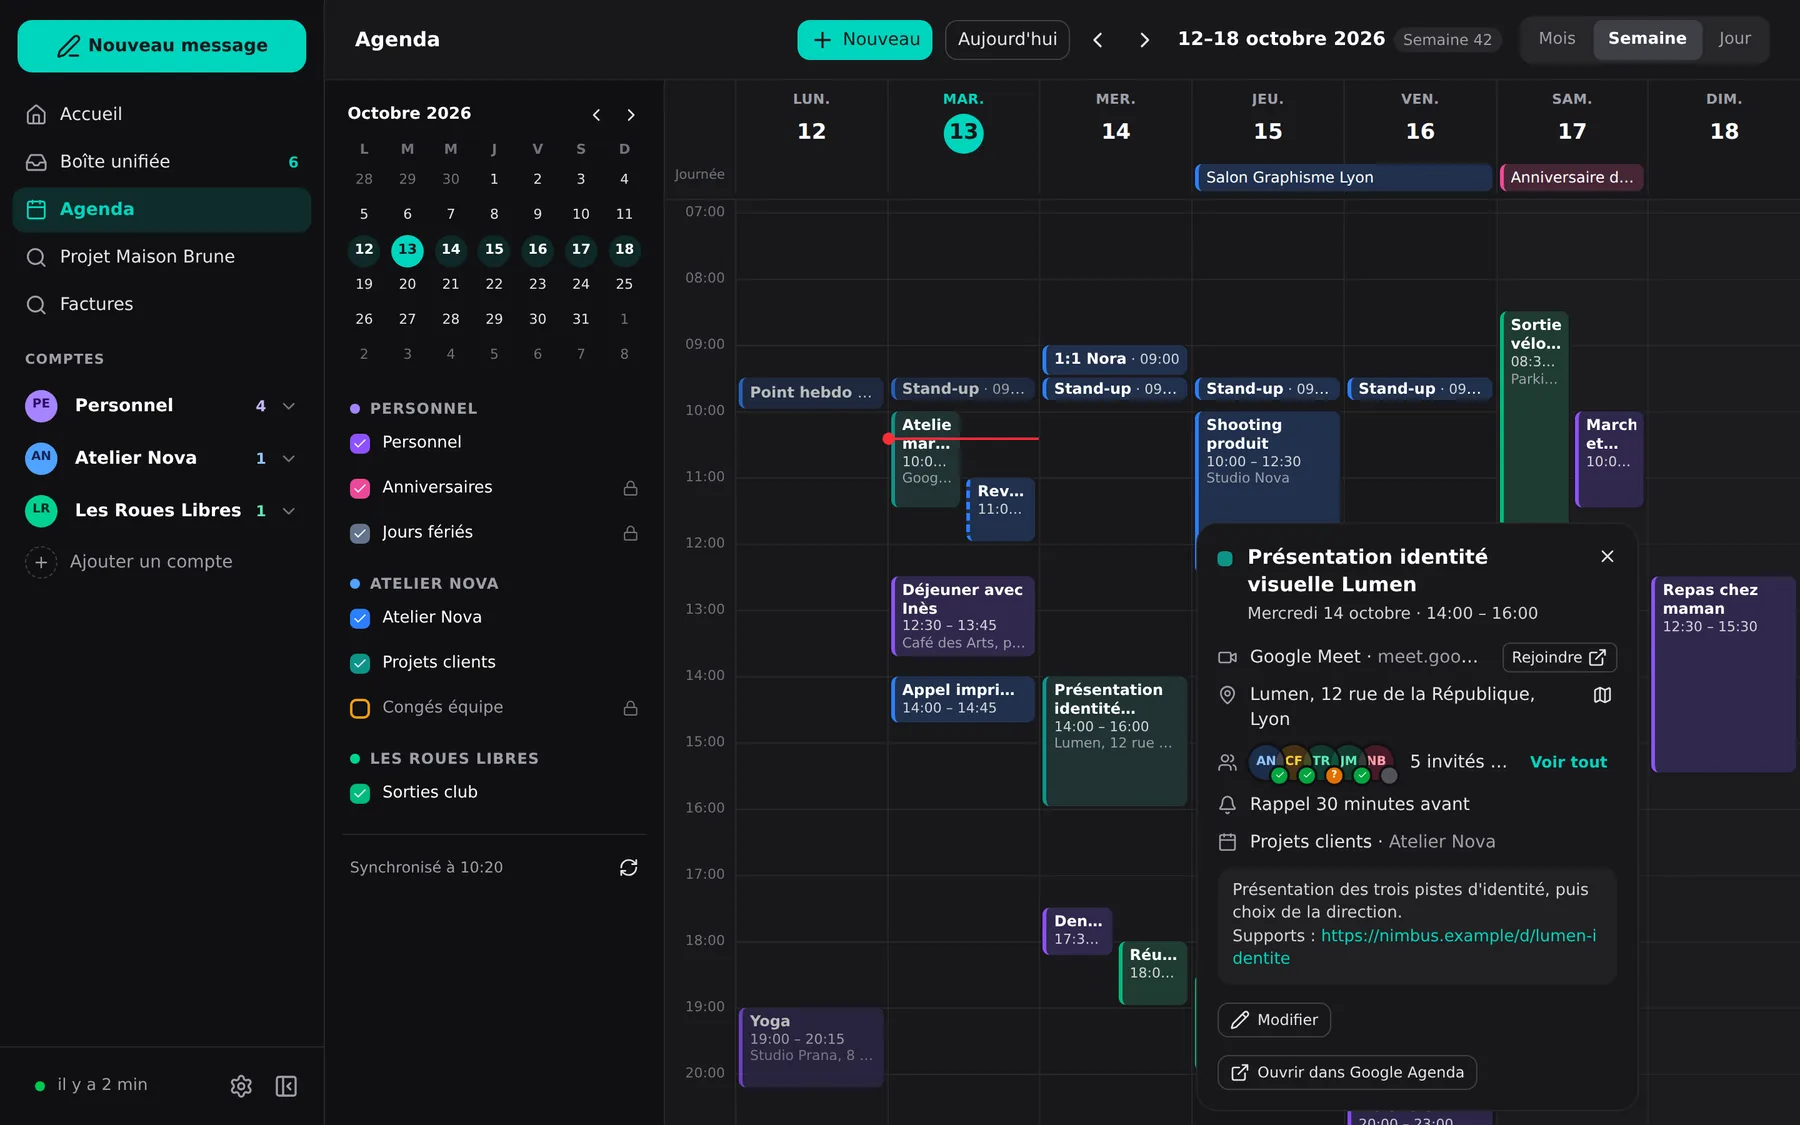
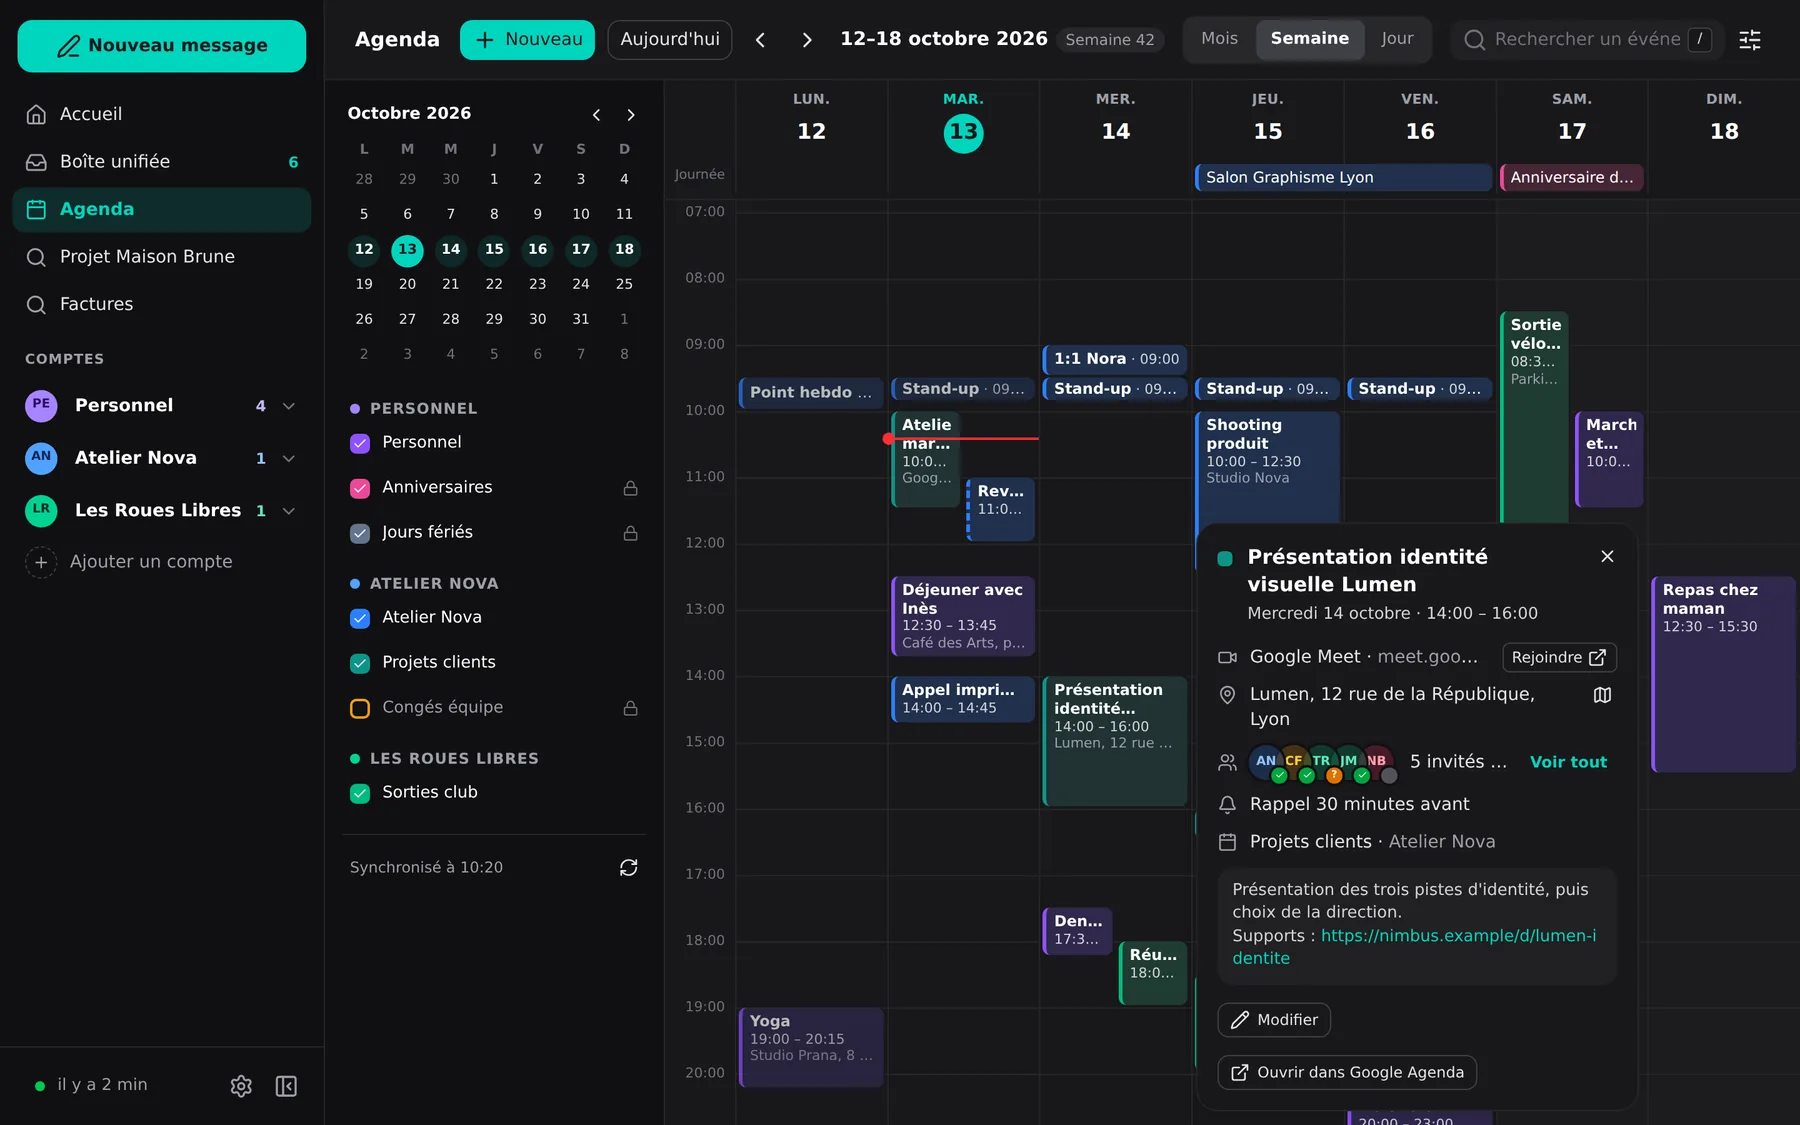
Website: screenshots of the current interface, calendar search shown, features since 0.8 listed

Changed region(s): [[0.4356, 0.0, 0.9956, 0.0622], [0.2489, 0.0, 0.4044, 0.0622]]

diff --git a/site/features.html b/site/features.html
@@ -85,6 +85,7 @@
             <li><span lang="fr">Recherche plein texte dans tous les comptes, et sur le serveur si besoin</span><span lang="en">Full-text search across every account, and on the server when needed</span></li>
             <li><span lang="fr">Recherches enregistrées dans la barre latérale</span><span lang="en">Saved searches in the sidebar</span></li>
             <li><span lang="fr">Synchro au rythme choisi pour chaque compte, nouveaux messages en direct</span><span lang="en">Sync at the pace you choose per account, new mail live</span></li>
+            <li><span lang="fr">Les gros messages s'ouvrent d'abord sur leur texte</span><span lang="en">Large messages open on their text first</span></li>
           </ul>
         </div>
         <div class="frame"><img src="screens/search-dark.webp" width="1800" height="1125" loading="lazy" decoding="async"
@@ -99,12 +100,13 @@
             <li><span lang="fr">Événements répétés : chaque semaine, le 3e mardi du mois, jusqu'à une date…</span><span lang="en">Repeating events: every week, the 3rd Tuesday of the month, until a date…</span></li>
             <li><span lang="fr">Invités et leurs réponses, invitations envoyées pour vous</span><span lang="en">Guests and their answers, invitations sent for you</span></li>
             <li><span lang="fr">Rappels en notification, avec « Rejoindre » pour la visio</span><span lang="en">Reminders as notifications, with “Join” for the video call</span></li>
+            <li><span lang="fr">Recherche dans tous les agendas : qui, où, quand, accents facultatifs</span><span lang="en">Search across every calendar: who, where, when, accents optional</span></li>
           </ul>
         </div>
-        <div class="frame"><img src="screens/event-dark.webp" width="1800" height="1125" loading="lazy" decoding="async"
-            data-alt-fr="La semaine dans l'agenda, une réunion ouverte : lien de visio, lieu, invités et leurs réponses, rappel."
-            data-alt-en="The week in the calendar, a meeting open: video link, place, guests and their answers, reminder."
-            alt="La semaine dans l'agenda, une réunion ouverte : lien de visio, lieu, invités et leurs réponses, rappel."></div>
+        <div class="frame"><img src="screens/calendar-search-dark.webp" width="1800" height="1125" loading="lazy" decoding="async"
+            data-alt-fr="Une recherche « Lumen » dans l'agenda : les événements à venir, une réunion répétée chaque semaine, puis les passés."
+            data-alt-en="A search for “Lumen” in the calendar: upcoming events, a meeting repeated every week, then past ones."
+            alt="Une recherche « Lumen » dans l'agenda : les événements à venir, une réunion répétée chaque semaine, puis les passés."></div>
       </section>
       <section class="panel" role="tabpanel" id="panel-ai" aria-labelledby="tab-ai" hidden>
         <div class="text">
@@ -113,6 +115,7 @@
             <li><span lang="fr">Résumer un long fil en quelques points</span><span lang="en">Sum up a long thread in a few points</span></li>
             <li><span lang="fr">Un rendez-vous dans un message devient un événement en un clic</span><span lang="en">An appointment in a message becomes an event in one click</span></li>
             <li><span lang="fr">Dicter vos messages : un bouton micro, la ponctuation en prime</span><span lang="en">Dictate your messages: a microphone button, punctuation included</span></li>
+            <li><span lang="fr">Plus rapide sur la carte graphique, quand l'ordinateur en a une</span><span lang="en">Faster on the graphics card, when the computer has one</span></li>
           </ul>
         </div>
         <div class="frame"><img src="screens/ai-dark.webp" width="1800" height="1125" loading="lazy" decoding="async"
@@ -128,6 +131,7 @@
             <li><span lang="fr">Accepter comme personne, newsletter ou notification</span><span lang="en">Accept as a person, a newsletter or a notification</span></li>
             <li><span lang="fr">Décider pour tout un domaine d'un coup</span><span lang="en">Decide for a whole domain at once</span></li>
             <li><span lang="fr">Les messages suspects sont signalés avant que vous acceptiez</span><span lang="en">Suspicious messages are flagged before you accept them</span></li>
+            <li><span lang="fr">Refusé et supprimé : ses messages partent à la corbeille, maintenant et plus tard</span><span lang="en">Refused and deleted: their mail goes to the trash, now and later</span></li>
           </ul>
         </div>
         <div class="frame"><img src="screens/screener-dark.webp" width="1800" height="1125" loading="lazy" decoding="async"
@@ -142,6 +146,7 @@
             <li><span lang="fr">Annuler l'envoi, envoyer plus tard, modèles de messages</span><span lang="en">Undo send, send later, message templates</span></li>
             <li><span lang="fr">« Plus tard » : un message revient quand vous voulez</span><span lang="en">“Later”: a message comes back when you choose</span></li>
             <li><span lang="fr">Relances : « Sans réponse » vous rappelle ce qui attend</span><span lang="en">Follow-ups: “No reply” reminds you of what is waiting</span></li>
+            <li><span lang="fr">Brouillons signalés dans leur fil, repris ou abandonnés sur place</span><span lang="en">Drafts shown in their thread, resumed or discarded right there</span></li>
           </ul>
         </div>
         <div class="frame"><img src="screens/compose-dark.webp" width="1800" height="1125" loading="lazy" decoding="async"
@@ -155,6 +160,8 @@
           <ul class="checks">
             <li><span lang="fr">Liens trompeurs et domaines sosies signalés, pisteurs repérés</span><span lang="en">Deceptive links and lookalike domains flagged, trackers spotted</span></li>
             <li><span lang="fr">Pièces jointes inspectées : leur vrai type, pas celui annoncé</span><span lang="en">Attachments inspected: their real type, not the one claimed</span></li>
+            <li><span lang="fr">Images autorisées pour un expéditeur vérifié ou pour le site qui les héberge</span><span lang="en">Images allowed for a verified sender or for the site hosting them</span></li>
+            <li><span lang="fr">Liens réécrits par une passerelle de filtrage jugés sur leur vraie destination</span><span lang="en">Links rewritten by a filtering gateway judged by their real destination</span></li>
             <li><span lang="fr">Désabonnement en un clic des envois groupés</span><span lang="en">One-click unsubscribe from bulk mail</span></li>
           </ul>
         </div>

diff --git a/scripts/screenshots/mock.js b/scripts/screenshots/mock.js
@@ -69,7 +69,13 @@
         },
         sender_key: m.from.email.split('@')[1],
         images_allowed: !m.remote,
-        invite: m.invite ?? null
+        sender_proven: true,
+        own_copy: false,
+        image_hosts: [],
+        blocked_hosts: m.remote ? [m.from.email.split('@')[1]] : [],
+        images_covered: false,
+        invite: m.invite ?? null,
+        appointment: null
       })
       summaries.push(summary)
     })
@@ -383,6 +389,37 @@
     calendar_events: ({ from, to }) => {
       const on = new Set(demo.calendar.calendars.filter(c => c.enabled).map(c => c.id))
       return demo.calendar.events.filter(e => on.has(e.calendar_id) && e.start < to && (e.end > from || (e.end === e.start && e.start >= from)))
+    },
+    // As the engine: accents and case aside, a series is one hit at its next occurrence.
+    search_calendar_events: ({ query: q }) => {
+      const fold = t => (t || '').toLowerCase().normalize('NFD').replace(/[\u0300-\u036f]/g, '')
+      const words = t => fold(t).split(/\s+/).filter(Boolean)
+      const text = words(q.text).filter(w => !w.startsWith('-'))
+      const without = [...words(q.without), ...words(q.text).filter(w => w.startsWith('-')).map(w => w.slice(1)).filter(Boolean)]
+      const who = words(q.who)
+      const place = words(q.place)
+      if (!text.length && !who.length && !place.length) return { hits: [], more: false }
+      const now = Date.now() / 1000
+      const on = new Set(demo.calendar.calendars.filter(c => c.enabled && (!q.calendars.length || q.calendars.includes(c.id))).map(c => c.id))
+      const series = new Map()
+      for (const e of demo.calendar.events) {
+        if (!on.has(e.calendar_id) || (q.from !== null && e.end <= q.from) || (q.to !== null && e.start >= q.to)) continue
+        const people = fold([e.organizer, ...e.attendees.flatMap(a => [a.email, a.name])].join('\n'))
+        const loc = fold(e.location)
+        const all = [fold(e.summary), loc, fold(e.description), people].join('\n')
+        if (!text.every(w => all.includes(w)) || !who.every(w => people.includes(w)) || !place.every(w => loc.includes(w)) || without.some(w => all.includes(w))) continue
+        const key = `${e.calendar_id}\n${e.recurring ? e.uid : e.id}`
+        const hit = series.get(key)
+        if (!hit) series.set(key, { event: e, occurrences: 1 })
+        else {
+          hit.occurrences++
+          if (hit.event.end <= now) hit.event = e
+        }
+      }
+      const hits = [...series.values()]
+      const upcoming = hits.filter(h => h.event.end > now).sort((a, b) => a.event.start - b.event.start)
+      const past = hits.filter(h => h.event.end <= now).sort((a, b) => b.event.start - a.event.start)
+      return { hits: [...upcoming, ...past], more: false }
     },
     set_calendar_enabled: ({ id, enabled }) => {
       const c = demo.calendar.calendars.find(x => x.id === id)

diff --git a/scripts/screenshots/data.js b/scripts/screenshots/data.js
@@ -369,8 +369,11 @@
   /** All-day events: local midnights, the end exclusive. */
   const allDay = (calendar, summary, day, days = 1, extra = {}) => event(calendar, summary, day, 0, 0, 0, { all_day: true, end: local(day + days), ...extra })
   // Today is Tuesday: Monday is day -1.
-  const weekly = (calendar, summary, weekday, hh, mm, minutes, extra) =>
-    [-14, -7, 0, 7, 14, 21].map(w => event(calendar, summary, w + weekday, hh, mm, minutes, extra))
+  let seriesId = 0
+  const weekly = (calendar, summary, weekday, hh, mm, minutes, extra) => {
+    const uid = `demo-series-${++seriesId}@example.org`
+    return [-14, -7, 0, 7, 14, 21].map(w => event(calendar, summary, w + weekday, hh, mm, minutes, { uid, instance: String(w), recurring: true, ...extra }))
+  }
 
   const events = [
     // Personnel
@@ -411,6 +414,9 @@
     event(4, 'Shooting produit', 2, 10, 0, 150, { location: 'Studio Nova' }),
     allDay(4, 'Salon Graphisme Lyon', 2, 2, { location: 'Halle Tony Garnier' }),
     event(4, 'Rétro de sprint', 3, 16, 0, 60, { status: 'tentative' }),
+    ...weekly(5, 'Point d\'avancement Lumen', 2, 16, 0, 30, { location: 'https://meet.google.com/lum-enpo-int' }),
+    event(5, 'Lancement projet Lumen', -27, 10, 0, 120, { location: 'Lumen, 12 rue de la République, Lyon', organizer: 'Claire Fontaine <claire@lumen.example>' }),
+    event(5, 'Atelier pistes graphiques Lumen', -12, 14, 0, 90, { location: 'Salle Lumière' }),
     event(5, 'Livraison maquettes Maison Brune', 8, 11, 0, 60),
     event(4, 'Déjeuner d\'équipe', 9, 12, 30, 90, { location: 'Le Comptoir' }),
     // Les Roues Libres

diff --git a/site/index.html b/site/index.html
@@ -105,7 +105,7 @@
             data-alt-fr="La semaine dans l'agenda, une réunion ouverte avec ses invités."
             data-alt-en="The week in the calendar, a meeting open with its guests."
             alt="La semaine dans l'agenda, une réunion ouverte avec ses invités."></div>
-          <div class="body"><h3><span lang="fr">Agenda</span><span lang="en">Calendar</span></h3><p><span lang="fr">Vos agendas Google, Outlook et CalDAV à côté du courrier : répétitions, invités, rappels.</span><span lang="en">Your Google, Outlook and CalDAV calendars next to your mail: repeats, guests, reminders.</span></p></div>
+          <div class="body"><h3><span lang="fr">Agenda</span><span lang="en">Calendar</span></h3><p><span lang="fr">Vos agendas Google, Outlook et CalDAV à côté du courrier : répétitions, invités, rappels, recherche.</span><span lang="en">Your Google, Outlook and CalDAV calendars next to your mail: repeats, guests, reminders, search.</span></p></div>
         </a>
         <a class="card highlight" href="features.html#ai">
           <div class="frame"><img src="screens/ai-dark.webp" width="1800" height="1125" loading="lazy" decoding="async"
